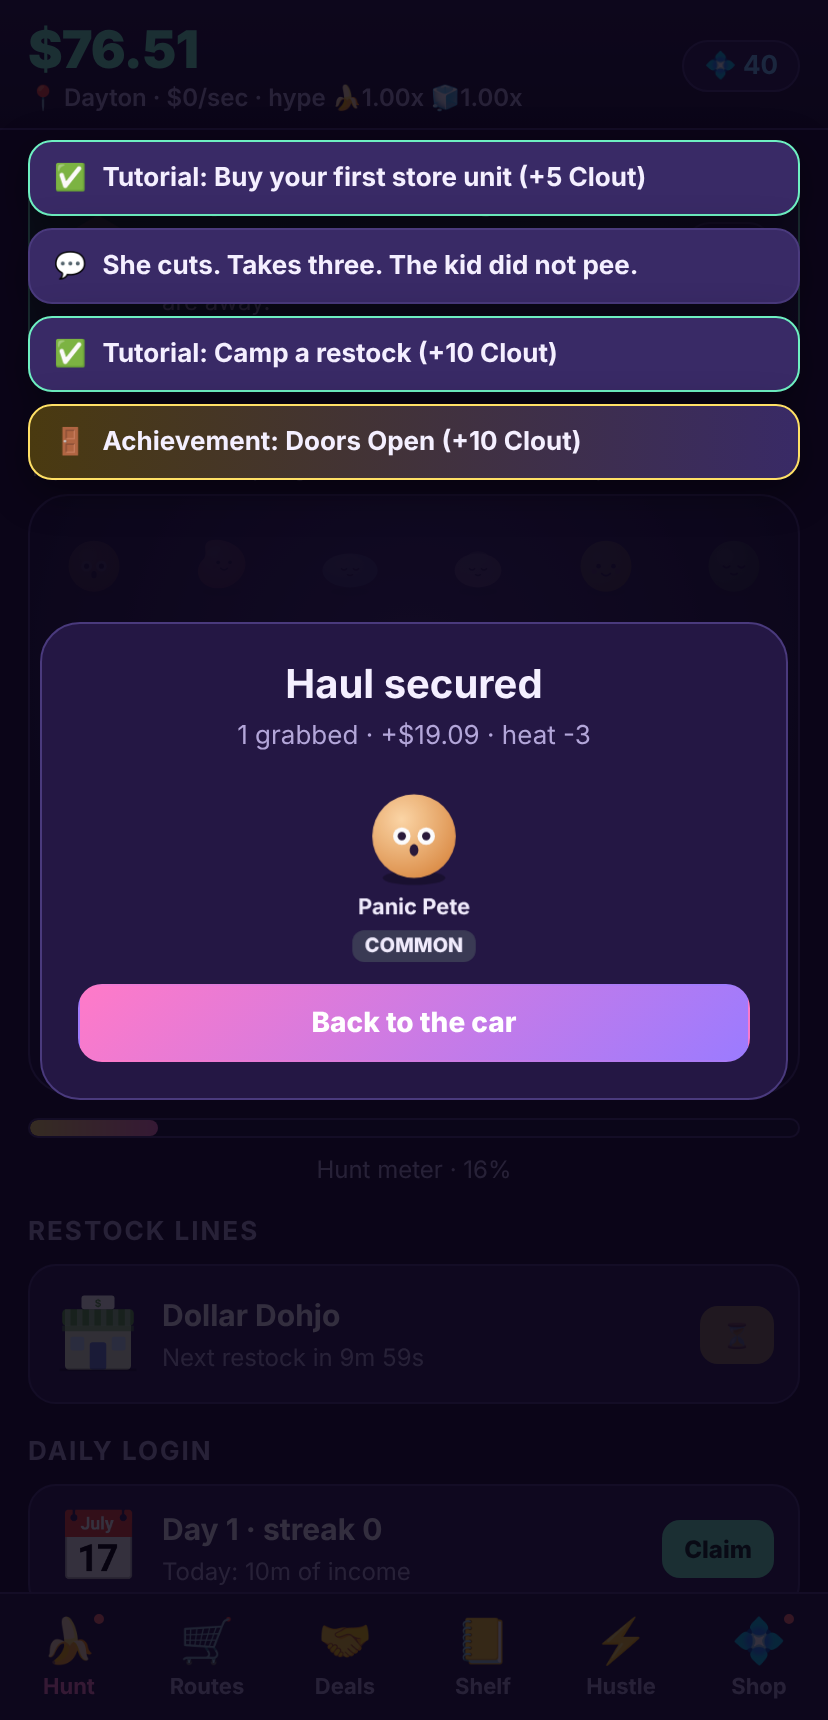
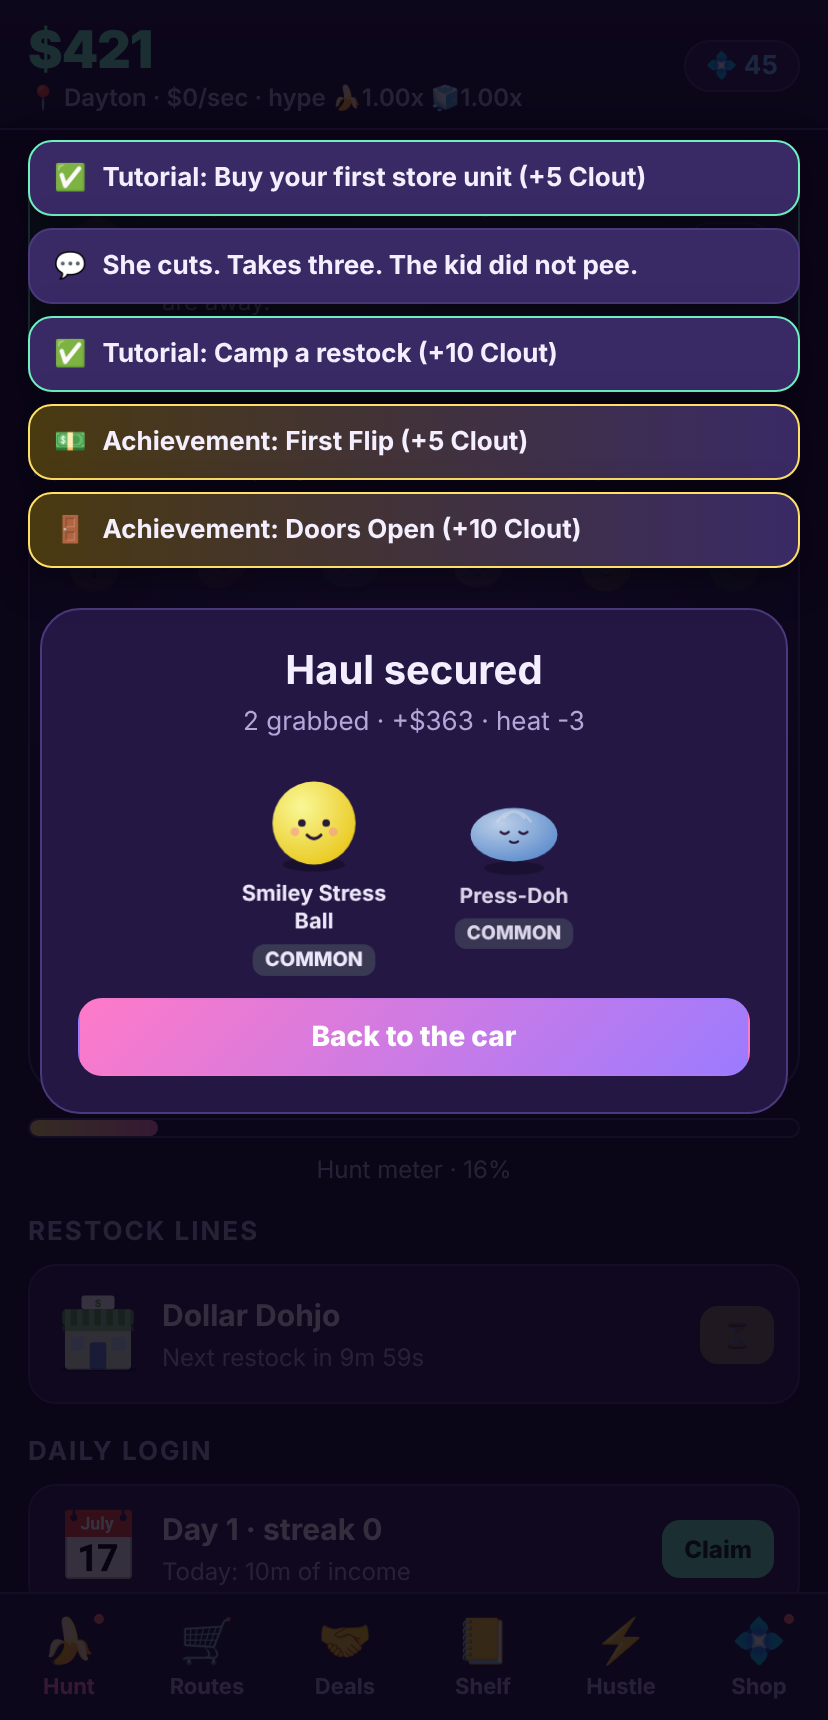
Scalp Street: play-test rebalance, economy bot plays deals and restocks, browser soak test
The economy bot now answers the Deals feed and camps restocks. It showed
deals and restocks were 95% of income; offers are now sized at 3 to 24
seconds of income, restock cash at 30 seconds of the store's income per
unit, channel and city deal multipliers trimmed to 10 to 30%, bot farm
passive heat cut 4x. A 6-hour run now splits 51/29/16 stores/deals/
restocks. Added a randomized 150-second browser soak that fails on any
page or console error.

Claude-Session: https://claude.ai/code/session_01MZnGvyVSyAsA5yFMotXPV8

Changed region(s): [[0.0302, 0.2465, 0.9662, 0.6471], [0.0604, 0.0, 0.2415, 0.0616], [0.6944, 0.4006, 0.7246, 0.4314]]

diff --git a/scalp-street/tools/balance.ts b/scalp-street/tools/balance.ts
@@ -1,9 +1,12 @@
-// Balance simulation: a greedy bot plays the game at 1x speed for N hours of
-// "active" play, always buying the cheapest-payback unit/manager/upgrade.
-// Run with `npm run balance`. Prints a progression curve and when each store
-// and prestige threshold is reached, which is how the tuning tables were set.
+// Balance simulation: a greedy bot plays N simulated hours. It taps, buys
+// the best-payback unit/manager/upgrade, keeps unmanaged stores running,
+// answers the Deals feed (accepts fair/lowball/bro, declines the rest),
+// camps every restock as it comes ready (grabbing 60% of carry, no
+// encounters), and reports where the money came from. Run: npm run balance 8
 import { initialState } from '../src/engine/state';
-import { tick, computeModifiers, incomePerSecond, storeUnlocked, credForRun, storeCycleProfit, storeCycleSeconds } from '../src/engine/sim';
+import { tick, computeModifiers, incomePerSecond, storeUnlocked, credForRun, storeCycleProfit, storeCycleSeconds, tapValue } from '../src/engine/sim';
+import { acceptOffer, declineOffer } from '../src/engine/deals';
+import { startRun, openDoors, grab, finishRun, restockReady } from '../src/engine/restock';
 import { STORES } from '../src/engine/data/stores';
 import { MANAGER_BY_STORE } from '../src/engine/data/managers';
 import { UPGRADES } from '../src/engine/data/upgrades';
@@ -16,43 +19,62 @@ let now = 0;
 const dt = 1;
 const milestones: string[] = [];
 const unlocked = new Set<string>();
-let prestigeAt: number | null = null;
+const src = { stores: 0, taps: 0, deals: 0, restocks: 0 };
+let lastEarned = 0;
 
 for (let t = 0; t < hours * 3600; t += dt) {
   now += dt * 1000;
+  const before = s.stats.totalCashEarned;
   tick(s, dt, now, rng);
-  // Tap as a human might: ~3 taps/sec for the first 10 minutes, then 0.2/sec.
+  src.stores += s.stats.totalCashEarned - before;
   const m = computeModifiers(s, now);
   const taps = t < 600 ? 3 : 0.2;
-  const ips = incomePerSecond(s, m, true);
-  s.cash += (1 + ips * 0.01) * m.tapPower * taps * dt;
-  // Keep unmanaged stores running (player taps icons).
-  for (const st of STORES) {
-    const ss = s.stores[st.id];
-    if (ss.units > 0 && !ss.manager && ss.progress <= 0) ss.progress = 1e-6;
+  const tv = tapValue(s, m) * taps * dt;
+  s.cash += tv; s.stats.totalCashEarned += tv; s.stats.lifetimeCashEarned += tv; src.taps += tv;
+  for (const st of STORES) { const ss = s.stores[st.id]; if (ss.units > 0 && !ss.manager && ss.progress <= 0) ss.progress = 1e-6; }
+  // Deals: answer everything in the feed.
+  for (const o of [...s.offers]) {
+    const b = s.stats.totalCashEarned;
+    if (o.kind === 'fair' || o.kind === 'lowball' || o.kind === 'sneakerbro' || o.kind === 'ghost') acceptOffer(s, o.id, now, rng);
+    else declineOffer(s, o.id);
+    src.deals += s.stats.totalCashEarned - b;
   }
-  // Greedy: best payback among next unit / manager / upgrade.
+  // Restocks: camp whatever is ready.
+  for (const st of STORES) {
+    if (!restockReady(s, st.id, now)) continue;
+    const run = startRun(s, st.id, m, now, rng);
+    if (!run) continue;
+    run.encounter = null;
+    openDoors(run);
+    const target = Math.max(1, Math.floor(run.carry * 0.6));
+    while (run.grabbed < target && run.remaining > 0) grab(run, m.tapPower);
+    run.phase = 'done';
+    const b = s.stats.totalCashEarned;
+    finishRun(s, run, now, rng);
+    src.restocks += s.stats.totalCashEarned - b;
+  }
+  // Greedy spend.
+  const ips = incomePerSecond(s, m, true);
   let best: { payback: number; act: () => void } | null = null;
   for (const st of STORES) {
     if (!storeUnlocked(s, st.id)) continue;
     const ss = s.stores[st.id];
     const cost = unitCost(st, ss.units);
     if (cost > s.cash) continue;
-    const before = storeCycleProfit(s, st.id, m) / storeCycleSeconds(s, st.id, m);
+    const b0 = storeCycleProfit(s, st.id, m) / storeCycleSeconds(s, st.id, m);
     ss.units += 1;
-    const after = storeCycleProfit(s, st.id, m) / storeCycleSeconds(s, st.id, m);
+    const b1 = storeCycleProfit(s, st.id, m) / storeCycleSeconds(s, st.id, m);
     ss.units -= 1;
-    const gain = after - before || 1e-9;
-    const payback = cost / gain;
+    const payback = cost / Math.max(1e-9, b1 - b0);
     if (!best || payback < best.payback) best = { payback, act: () => { s.cash -= cost; ss.units += 1; } };
     const mgr = MANAGER_BY_STORE[st.id];
     if (ss.units > 0 && !ss.manager && mgr.cost <= s.cash) {
-      const pb = mgr.cost / Math.max(1e-9, before);
+      const pb = mgr.cost / Math.max(1e-9, b0);
       if (!best || pb < best.payback) best = { payback: pb, act: () => { s.cash -= mgr.cost; ss.manager = true; } };
     }
   }
   for (const u of UPGRADES) {
-    if (u.currency !== 'cash' || s.upgrades.includes(u.id) || u.cost > s.cash) continue;
+    if (u.currency !== 'cash' || s.upgrades.includes(u.id) || u.cost > s.cash || u.group === 'sketchy') continue;
     if (u.requires && s.stores[u.requires.storeId].units < u.requires.units) continue;
     if (u.tier && !s.upgrades.includes(u.id.replace(/_(\d)$/, `_${u.tier - 1}`))) continue;
     const gainMult = u.effect.kind === 'globalProfit' || u.effect.kind === 'globalSpeed' ? u.effect.mult - 1 : u.effect.kind === 'storeProfit' ? 0.3 : 0.1;
@@ -61,9 +83,16 @@ for (let t = 0; t < hours * 3600; t += dt) {
   }
   if (best) best.act();
   for (const st of STORES) if (s.stores[st.id].units > 0 && !unlocked.has(st.id)) { unlocked.add(st.id); milestones.push(`${formatDuration(t)}: first ${st.name}`); }
-  if (prestigeAt === null && credForRun(s.stats.totalCashEarned) > 0) { prestigeAt = t; milestones.push(`${formatDuration(t)}: prestige available (+${credForRun(s.stats.totalCashEarned)} cred)`); }
-  if (t % 1800 === 0) console.log(`${formatDuration(t).padEnd(8)} cash ${formatCash(s.cash).padEnd(10)} ips ${formatCash(incomePerSecond(s, m, true)).padEnd(10)} earned ${formatCash(s.stats.totalCashEarned)}`);
+  if (!milestones.some((x) => x.includes('prestige')) && credForRun(s.stats.totalCashEarned) > 0) milestones.push(`${formatDuration(t)}: prestige available (+${credForRun(s.stats.totalCashEarned)} cred)`);
+  if (t % 1800 === 0) {
+    const earned = s.stats.totalCashEarned;
+    console.log(`${formatDuration(t).padEnd(8)} cash ${formatCash(s.cash).padEnd(10)} ips ${formatCash(incomePerSecond(s, m, true)).padEnd(10)} earned ${formatCash(earned).padEnd(10)} last30m ${formatCash(earned - lastEarned).padEnd(10)} heat ${s.heat.toFixed(0).padStart(3)} shelf ${Object.keys(s.shelf).filter((k) => s.shelf[k] > 0).length}`);
+    lastEarned = earned;
+  }
 }
+const total = src.stores + src.taps + src.deals + src.restocks;
+console.log('\nIncome sources:');
+for (const [k, v] of Object.entries(src)) console.log(`  ${k.padEnd(9)} ${formatCash(v).padEnd(10)} ${((v / total) * 100).toFixed(1)}%`);
 console.log('\nMilestones:');
 for (const m of milestones) console.log('  ' + m);
-console.log(`\nAfter ${hours}h: cred on prestige = ${credForRun(s.stats.totalCashEarned)}`);
+console.log(`\nAfter ${hours}h: cred on prestige = ${credForRun(s.stats.totalCashEarned)} · restocks ${s.stats.restocks} · deals ${s.stats.offersAccepted} · called out ${s.stats.calledOut}x`);

diff --git a/scalp-street/src/engine/data/upgrades.ts b/scalp-street/src/engine/data/upgrades.ts
@@ -79,14 +79,14 @@ const sketchy: UpgradeDef[] = [
 
 // Selling channels change how the Deals feed behaves.
 const channels: UpgradeDef[] = [
-  { id: 'ch_fleabay', name: 'FleaBay Store', blurb: 'Buyers from everywhere. Offers are worth 30% more (after fees, somehow).', icon: '🏷', cost: 25_000, currency: 'cash', effect: { kind: 'offerValue', mult: 1.3 }, group: 'channel' },
-  { id: 'ch_mercarry', name: 'Mercarry Listings', blurb: 'Cross-list everything. Offers arrive 40% more often.', icon: '📱', cost: 300_000, currency: 'cash', effect: { kind: 'offerRate', mult: 1.4 }, group: 'channel' },
-  { id: 'ch_whatnow', name: 'WhatNow Live Shows', blurb: '"GOING ONCE" at 1am to 30 viewers. Offers arrive 50% more often and pay 50% more.', icon: '📺', cost: 20_000_000, currency: 'cash', effect: { kind: 'offerRate', mult: 1.5 }, group: 'channel' },
-  { id: 'ch_whatnow2', name: 'WhatNow Hype Mode', blurb: 'Confetti cannon. Offers pay 50% more.', icon: '🎉', cost: 60_000_000, currency: 'cash', effect: { kind: 'offerValue', mult: 1.5 }, group: 'channel' },
+  { id: 'ch_fleabay', name: 'FleaBay Store', blurb: 'Buyers from everywhere. Offers are worth 10% more (after fees, somehow).', icon: '🏷', cost: 25_000, currency: 'cash', effect: { kind: 'offerValue', mult: 1.1 }, group: 'channel' },
+  { id: 'ch_mercarry', name: 'Mercarry Listings', blurb: 'Cross-list everything. Offers arrive 15% more often.', icon: '📱', cost: 300_000, currency: 'cash', effect: { kind: 'offerRate', mult: 1.15 }, group: 'channel' },
+  { id: 'ch_whatnow', name: 'WhatNow Live Shows', blurb: '"GOING ONCE" at 1am to 30 viewers. Offers arrive 15% more often.', icon: '📺', cost: 20_000_000, currency: 'cash', effect: { kind: 'offerRate', mult: 1.15 }, group: 'channel' },
+  { id: 'ch_whatnow2', name: 'WhatNow Hype Mode', blurb: 'Confetti cannon. Offers pay 10% more.', icon: '🎉', cost: 60_000_000, currency: 'cash', effect: { kind: 'offerValue', mult: 1.1 }, group: 'channel' },
   { id: 'ch_radar', name: 'Scam Radar', blurb: '"Hi dear" and "send your email for the invoice" get a red flag in the feed.', icon: '🚩', cost: 10_000, currency: 'cash', effect: { kind: 'scamRadar' }, group: 'channel' },
   { id: 'ch_gands', name: 'Goods & Services Only', blurb: 'No Friends & Family, no Zelle, no checks. Scams can no longer cost you money.', icon: '🛡', cost: 2_000_000, currency: 'cash', effect: { kind: 'scamShield' }, group: 'channel' },
   { id: 'ch_uv', name: 'UV Tag Light', blurb: 'Spot the wrong font and the gasoline smell before you pay. No more counterfeit pulls.', icon: '🔦', cost: 5_000_000, currency: 'cash', effect: { kind: 'fakeShield' }, group: 'channel' },
-  { id: 'ch_stockyx', name: 'StockyX Listing', blurb: 'Authenticated by a guy who smells the cube. Hype buyers pay 25% more, minus a fee you do not read about.', icon: '📈', cost: 5_000_000, currency: 'cash', effect: { kind: 'offerValue', mult: 1.25 }, group: 'channel' },
+  { id: 'ch_stockyx', name: 'StockyX Listing', blurb: 'Authenticated by a guy who smells the cube. Hype buyers pay 10% more, minus a fee you do not read about.', icon: '📈', cost: 5_000_000, currency: 'cash', effect: { kind: 'offerValue', mult: 1.1 }, group: 'channel' },
   { id: 'ch_pr', name: 'PR Apology Template', blurb: '"I\'ve grown as a person." Heat cools twice as fast.', icon: '📝', cost: 50_000_000, currency: 'cash', effect: { kind: 'heatDecay', mult: 2 }, group: 'channel' },
 ];
 

diff --git a/scalp-street/src/engine/data/cities.ts b/scalp-street/src/engine/data/cities.ts
@@ -13,11 +13,11 @@ export interface CityDef {
 export const CITIES: CityDef[] = [
   { id: 'dayton', name: 'Dayton, OH', icon: '🏭', blurb: 'Where it started. One Bullseye, one WallyMart, infinite moms.', perk: 'No perk. Humble beginnings.', effect: { kind: 'globalProfit', mult: 1 } },
   { id: 'fresno', name: 'Fresno, CA', icon: '🌞', blurb: 'Hot parking lots, early restocks, nobody asks questions.', perk: 'All stores 15% faster.', effect: { kind: 'globalSpeed', mult: 1.15 } },
-  { id: 'tampa', name: 'Tampa, FL', icon: '🐊', blurb: 'Marketplace capital of the world. Everyone is selling something.', perk: 'Offers worth 40% more.', effect: { kind: 'offerValue', mult: 1.4 } },
+  { id: 'tampa', name: 'Tampa, FL', icon: '🐊', blurb: 'Marketplace capital of the world. Everyone is selling something.', perk: 'Offers worth 25% more.', effect: { kind: 'offerValue', mult: 1.25 } },
   { id: 'vegas', name: 'Las Vegas, NV', icon: '🎰', blurb: 'The claw machines are rigged in your favor for once.', perk: 'Much better pull luck.', effect: { kind: 'pullLuck', add: 0.4 } },
   { id: 'scranton', name: 'Scranton, PA', icon: '📄', blurb: 'Quiet. Polite. The group chat is small and forgiving.', perk: 'Heat cools 2x faster.', effect: { kind: 'heatDecay', mult: 2 } },
   { id: 'austin', name: 'Austin, TX', icon: '🎸', blurb: 'Every restock is a festival. Lines are long but the trucks are full.', perk: 'Profit x1.3.', effect: { kind: 'globalProfit', mult: 1.3 } },
-  { id: 'jersey', name: 'Jersey City, NJ', icon: '🗽', blurb: 'Across the river from the warehouses. Trucks "fall off" constantly.', perk: 'Offers arrive 50% more often.', effect: { kind: 'offerRate', mult: 1.5 } },
+  { id: 'jersey', name: 'Jersey City, NJ', icon: '🗽', blurb: 'Across the river from the warehouses. Trucks "fall off" constantly.', perk: 'Offers arrive 30% more often.', effect: { kind: 'offerRate', mult: 1.3 } },
   { id: 'boise', name: 'Boise, ID', icon: '🥔', blurb: 'Nobody here has heard of a cook group. The shelves are full.', perk: 'Skip 3 people in every line.', effect: { kind: 'linePosition', add: 3 } },
   { id: 'phoenix', name: 'Phoenix, AZ', icon: '🌵', blurb: 'Minivans everywhere. Yours is bigger.', perk: 'Carry 4 more per restock.', effect: { kind: 'carry', add: 4 } },
   { id: 'orlando', name: 'Orlando, FL', icon: '🎢', blurb: 'Tourists buy anything at any price. Especially dough.', perk: 'Squishy and doh profit x1.25.', effect: { kind: 'globalProfit', mult: 1.25 } },

diff --git a/scalp-street/src/engine/restock.ts b/scalp-street/src/engine/restock.ts
@@ -1,7 +1,7 @@
 import type { GameState, RestockRun, Rival, RivalKind, ItemDef } from './types';
 import { STORE_BY_ID } from './data/stores';
 import { RIVALS, ENCOUNTERS, LINE_FLAVOR, type EncounterDef } from './data/restock';
-import { computeModifiers, storeCycleProfit, pullItem, earn, bumpMission, isConWeekend, type Modifiers } from './sim';
+import { computeModifiers, storeCycleProfit, storeCycleSeconds, pullItem, earn, bumpMission, isConWeekend, type Modifiers } from './sim';
 import { fakeRoll } from './deals';
 import { weightedPick } from './math';
 
@@ -221,7 +221,10 @@ export function finishRun(s: GameState, run: RestockRun, now: number, rand: () =
       fakes++;
     } else items.push(pullItem(s, run.storeId, m.pullLuck, rand));
   }
-  const cash = storeCycleProfit(s, run.storeId, m) * 3 * run.grabbed + STORE_BY_ID[run.storeId].baseProfit * run.grabbed;
+  // Cash is sized by time (30s of that store's income per unit) so a late
+  // store's long cycle does not turn a restock into hours of income.
+  const storeIps = storeCycleProfit(s, run.storeId, m) / storeCycleSeconds(s, run.storeId, m);
+  const cash = storeIps * 30 * run.grabbed + STORE_BY_ID[run.storeId].baseProfit * run.grabbed;
   earn(s, cash);
   s.heat = Math.max(0, Math.min(100, s.heat + run.heat));
   s.restockReadyAt[run.storeId] = now + RESTOCK_COOLDOWN_SECONDS * 1000;

diff --git a/scalp-street/src/engine/deals.ts b/scalp-street/src/engine/deals.ts
@@ -24,13 +24,13 @@ export const PRICING: Record<Pricing, { label: string; blurb: string; value: num
 
 /** Seconds of income an offer is worth, by kind. */
 const KIND_SECONDS: Record<OfferKind, [number, number]> = {
-  fair: [60, 120],
-  lowball: [12, 30],
-  scam: [240, 480],
-  ghost: [60, 120],
+  fair: [12, 24],
+  lowball: [3, 6],
+  scam: [50, 100],
+  ghost: [12, 24],
   trade: [0, 0],
   karen: [0, 0],
-  sneakerbro: [100, 200],
+  sneakerbro: [20, 40],
 };
 
 const AVATARS = ['🧔', '👩', '🧑', '👨🦳', '👩🦰', '🧒', '👵', '🕶', '🐶', '🌸', '🤖', '🧢'];
@@ -212,7 +212,7 @@ export const APOLOGY_CLOUT = 30;
 export function tickHeat(s: GameState, m: Modifiers, dt: number, now: number): boolean {
   // Passive heat from the bot farm; everything else is discrete.
   const bots = s.stores.botfarm?.units ?? 0;
-  s.heat += bots * 0.0004 * dt;
+  s.heat += bots * 0.0001 * dt;
   s.heat -= HEAT_DECAY_PER_SECOND * m.heatDecay * dt;
   s.heat = Math.max(0, Math.min(100, s.heat));
   if (s.heat >= 100 && !s.boosts.some((b) => b.id === 'called_out')) {

diff --git a/scalp-street/tests/deals.test.ts b/scalp-street/tests/deals.test.ts
@@ -116,8 +116,8 @@ describe('offer feed', () => {
     const s = rich();
     s.upgrades.push('ch_fleabay', 'ch_mercarry');
     const m = computeModifiers(s, T0);
-    expect(m.offerValue).toBeCloseTo(1.3, 6);
-    expect(m.offerRate).toBeCloseTo(1.4, 6);
+    expect(m.offerValue).toBeCloseTo(1.1, 6);
+    expect(m.offerRate).toBeCloseTo(1.15, 6);
   });
 });
 
@@ -150,13 +150,13 @@ describe('heat', () => {
     const s = rich();
     s.heat = 99.99;
     const m = computeModifiers(s, T0);
-    s.stores.botfarm.units = 100; // passive heat pushes it over
+    s.stores.botfarm.units = 1000; // passive heat pushes it over
     expect(tickHeat(s, m, 1, T0)).toBe(true);
     expect(s.heat).toBe(45);
     expect(s.stats.calledOut).toBe(1);
     expect(computeModifiers(s, T0).boostMult).toBeCloseTo(CALLED_OUT_MULT, 6);
     expect(tickHeat(s, m, 60, T0 + 1000)).toBe(false);
-    expect(s.heat).toBeLessThan(45 + 60 * 0.04);
+    expect(s.heat).toBeCloseTo(45 + 60 * (1000 * 0.0001 - 0.02), 6);
     s.clout = APOLOGY_CLOUT;
     expect(apologize(s)).toBe(true);
     expect(s.heat).toBe(0);

diff --git a/scalp-street/docs/game-design.md b/scalp-street/docs/game-design.md
@@ -65,21 +65,21 @@ they matter at every stage:
 
 | Kind | Weight | Worth | Accept | Counter | Decline |
 | --- | --- | --- | --- | --- | --- |
-| Fair buyer | 30 | 60-120s income | paid | 50% paid x1.35, 50% ghosted | nothing |
-| Lowball | 28 | 12-30s | paid (counts toward "Lowballed") | 50% paid x2.2, 50% ghosted | nothing |
-| "Is this available?" | 16 | 60-120s | 70% no-show, 30% paid | same as fair | nothing |
-| Scam | 12 | 240-480s (too good) | lose that much cash (0 with Goods & Services) | they vanish | blocked, +scams dodged |
+| Fair buyer | 28 | 12-24s income | paid | 50% paid x1.35, 50% ghosted | nothing |
+| Lowball | 26 | 3-6s | paid (counts toward "Lowballed") | 50% paid x2.2, 50% ghosted | nothing |
+| "Is this available?" | 14 | 12-24s | 70% no-show, 30% paid | same as fair | nothing |
+| Scam | 11 | 50-100s (too good) | lose that much cash (0 with Goods & Services) | they vanish | blocked, +scams dodged |
 | Trade | 6 | an item | random pull with +0.2 luck | same | nothing |
 | Karen | 8 | nothing | clap back: +10 pass XP, +6 Heat | same | block |
-| Sneaker bro | 8 | 100-200s | 60% paid, 40% "the chart dipped" | 60% paid x1.2 | nothing |
+| Sneaker bro | 8 | 20-40s | 60% paid, 40% "the chart dipped" | 60% paid x1.2 | nothing |
 
-Channels: FleaBay (+30% value), Mercarry (+40% rate), WhatNow Live (+50%
-rate) and Hype Mode (+50% value), Scam Radar (flags scams), Goods &
+Channels: FleaBay (+10% value), Mercarry (+15% rate), WhatNow Live (+15%
+rate), Hype Mode (+10% value), StockyX (+10% value), Scam Radar (flags scams), Goods &
 Services Only (scams cost nothing and stop appearing), UV Tag Light (no
 counterfeits), PR Apology Template (Heat cools 2x).
 
 **Heat.** 0 to 100. Sketchy tactics add 15 to 35 each, clapping back +6,
-flipping a fake +8, the Drop Bot Farm adds 0.0004 per unit per second. It
+flipping a fake +8, the Drop Bot Farm adds 0.0001 per unit per second. It
 cools 0.02 per second. At 100: Called Out, profit x0.4 for three minutes,
 Heat resets to 45. An apology video (30 Clout) clears it. Relocate resets it.
 
@@ -110,7 +110,7 @@ three phases:
    the limit (comply: 2 more max; "buying for my cousins": 60% works, 40%
    banned).
 3. **Checkout.** Each unit is a real pull from that store (counterfeit odds
-   apply), plus cash worth 3 cycles of that store per unit. Heat from the
+   apply), plus cash worth 30 seconds of that store's income per unit. Heat from the
    run is applied. A ban locks the store for 10 minutes: no cycles, no
    restocks, a BANNED badge on the Routes tab.
 
@@ -127,8 +127,8 @@ three phases:
 
 **Relocate picks a city.** When you prestige you are offered two of eleven
 cities (never the one you are in). Each carries a perk for the whole run:
-Fresno (stores 15% faster), Tampa (offers +40%), Las Vegas (+0.4 pull luck),
-Scranton (heat cools 2x), Austin (profit x1.3), Jersey City (offers 50%
+Fresno (stores 15% faster), Tampa (offers +25%), Las Vegas (+0.4 pull luck),
+Scranton (heat cools 2x), Austin (profit x1.3), Jersey City (offers 30%
 more often), Boise (skip 3 in line), Phoenix (carry +4), Orlando (profit
 x1.25), Seattle (bot farm 2x), New Orleans (convention 2x). Dayton is the
 starting city with no perk.
@@ -150,6 +150,18 @@ would add leaderboards on top.
 (no files, works offline, portable to Capacitor). `src/ui/fxbus.ts` lets
 the store fire confetti, screen shake and color flashes without importing
 React. Pulls scale their celebration to the best rarity in the batch.
+
+## Play-test log
+
+The economy bot (`npm run balance`) plays stores, deals and restocks
+greedily. Before the first rebalance the Deals feed and restock cash were
+95% of all income and every store unlocked in 16 minutes. After sizing
+offers at 3 to 24 seconds of income, restock cash at 30 seconds of the
+store's income per unit, and trimming channel and city multipliers to 10
+to 30%, a 6-hour perfect run splits 51% stores, 29% deals, 16% restocks,
+3% taps, reaches the Factory at 1h 12m and can first prestige at 17m. A
+human plays slower, so real numbers land later. The randomized browser
+soak (`npm run soak`) runs 150 seconds of random actions with no errors.
 
 ## Economy tuning
 

diff --git a/scalp-street/README.md b/scalp-street/README.md
@@ -19,7 +19,8 @@ npm run build      # production bundle in dist/ (PWA, works offline)
 npm run preview    # serve dist/
 npm test           # engine unit tests (vitest)
 npm run smoke      # headless browser run-through with screenshots
-npm run balance 8  # greedy-bot economy sim for 8 simulated hours
+npm run soak       # 2-minute randomized browser play session, fails on any error
+npm run balance 8  # greedy-bot economy sim (stores, deals, restocks) for 8 simulated hours
 ```
 
 ## What is in the game
@@ -41,7 +42,7 @@ npm run balance 8  # greedy-bot economy sim for 8 simulated hours
 - **Tutorial**: a nine-step first-time checklist that completes itself from
   play and pays Clout.
 - **Cities**: Relocate offers a choice of two cities, each with a perk
-  (Fresno: stores 15% faster, Tampa: offers worth 40% more, Vegas: pull
+  (Fresno: stores 15% faster, Tampa: offers worth 25% more, Vegas: pull
   luck, Scranton: heat cools 2x, Boise: skip 3 in line, Phoenix: carry +4,
   Seattle: bot farm 2x, ...). Your city shows in the header.
 - **Local scalper rankings**: eleven fake rivals from Little Timmy to The
